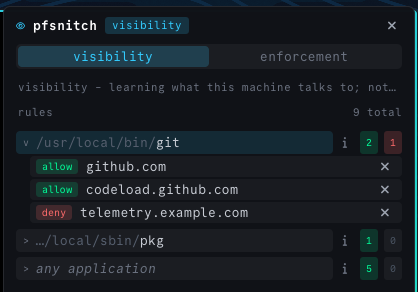
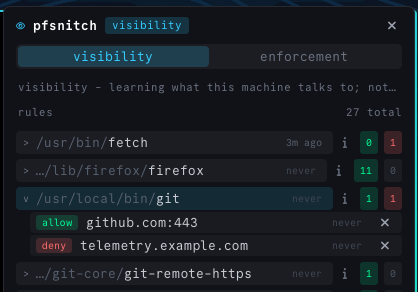
Document ports, binary identity, reject and last-used
The docs still described the tool as it was four changes ago: no port syntax
anywhere, nothing about app-id, and a deny that hangs rather than refuses.

Refreshes the panel screenshot too, which predated the info button, the full
paths and the last-used column.

diff --git a/docs/FRONTENDS.md b/docs/FRONTENDS.md
@@ -44,15 +44,37 @@ own line is a complete rule. Hand-editing is an interface, not a workaround.
 | `deny-host-from`  | a hostname, **for one binary** | what *Block connection* writes |
 | `allow-dest-from` | one address, **for one binary** | used when no hostname was seen |
 | `deny-dest-from`  | one address, **for one binary** | as above |
-| `allow-app`       | one binary, every destination | |
-| `deny-app`        | one binary, every destination | the big hammer |
+| `allow-app`       | one binary, every destination and port | |
+| `deny-app`        | one binary, every destination and port | the big hammer |
 | `allow-host`      | a hostname, **any binary** | infrastructure: a resolver, a gateway |
 | `deny-host`       | a hostname, any binary | |
 | `allow-dest`      | one address, any binary | |
+| `app-id`          | pins a binary's sha256 | see *Binary identity* below |
 
 Hostname rules are preferred over addresses: one rule covers every address a
 site answers on, instead of re-prompting for each rotating CDN address.
 Wildcards are supported as `*.example.com`, in scoped and unscoped rules alike.
+
+### Ports
+
+Every host and address rule may name a port. A rule without one means **any
+port**, which is what a bare host has always meant - so a policy file written
+before ports existed keeps its meaning exactly.
+
+```
+allow-host-from github.com:443            /usr/local/bin/git   # just HTTPS
+allow-host-from github.com                /usr/local/bin/git   # any port
+allow-dest-from [2606:4700:4700::1111]:853 /usr/bin/drill      # DoT only
+allow-dest      1.1.1.1:53                                     # any binary, DNS only
+```
+
+IPv6 needs the bracket form when you want a port. A bare `2606:4700::1111` is
+full of colons and must not be read as a host and a port - so brackets are the
+only way to say which is which, exactly as in a URL.
+
+An approval made from a prompt covers **the port it was asked about**, not every
+port on that host. Approving a browser's HTTPS access should not also hand it
+SSH.
 
 Scoped rules are written **destination first**:
 
@@ -103,6 +125,33 @@ When *Allow connection* is answered for a connection that could not be
 attributed, pfsnitch falls back to an unscoped rule and marks it
 `# unattributed connection`, because it is broader than you asked for and should
 be easy to find on review.
+
+## Binary identity
+
+Policy keys on the executable path, because that is the only stable handle pf
+and libprocstat give us. But a path is not an identity: replace the file and the
+replacement inherits every rule the original earned.
+
+An approval therefore pins the binary's hash:
+
+```
+app-id 311447b0a7dd05377167c9ca97a36176...	/usr/local/bin/git	# identity when approved
+```
+
+If the binary later differs, **its rules are ignored** and the connection falls
+back to asking. The prompt says so in red, and receives `changed` as an optional
+7th argument - a backend written before that existed simply ignores it. An
+approval given while it says `changed` re-pins the new hash: you have just said
+the new binary is the one you meant.
+
+FreeBSD binaries are generally unsigned, so a content hash stands in for the code
+signature Little Snitch uses. Hashing is `sha256(1)` from base rather than a
+crypto crate, cached on (mtime, size) so a binary is hashed once and again only
+when it actually changes.
+
+Only explicit approvals pin an identity - never a rule learned in visibility
+mode. Pinning something nobody looked at would give the pin a weight it has not
+earned.
 
 ## Grouped by application
 
@@ -163,6 +212,11 @@ Point `prompt` in `policy.conf`, `$PFSNITCH_PROMPT`, or `pfsnitch_prompt` in
 | `block-conn` | deny **this destination to this binary** — writes `deny-host-from` / `deny-dest-from` |
 | `block-app`  | deny the binary everything — writes `deny-app` |
 | `timeout`    | drop the packet, **write nothing** |
+
+A settled deny is **rejected, not dropped**: the daemon synthesises a TCP RST so
+the application gets `ECONNREFUSED` immediately instead of waiting out a 75
+second timeout. A packet held while a prompt is still open is dropped silently,
+because its retransmission is what carries the connection until you answer.
 
 `timeout` deliberately persists no rule. Walking away from a prompt must not
 lock you out of an application, and an unattended machine must not accumulate

diff --git a/README.md b/README.md
@@ -54,10 +54,11 @@ phones a metrics endpoint loses the metrics endpoint, not the network.
 
 | kind | matches |
 |---|---|
-| `allow-host-from` / `deny-host-from` | a hostname, **for one binary** |
-| `allow-dest-from` / `deny-dest-from` | one address, **for one binary** |
+| `allow-host-from` / `deny-host-from` | a hostname, **for one binary**, optionally one port |
+| `allow-dest-from` / `deny-dest-from` | one address, **for one binary**, optionally one port |
 | `allow-app` / `deny-app` | one binary, every destination |
 | `allow-host` / `deny-host` / `allow-dest` | any binary — for real infrastructure (a resolver, a gateway) |
+| `app-id` | pins the binary's sha256 at the moment it was approved |
 
 Hostname rules are preferred over addresses because they survive round-robin
 DNS: one rule covers every address a site answers on, instead of re-prompting
@@ -66,6 +67,33 @@ for each rotating CDN address.
 A scoped deny is the most specific rule there is, so it beats every broader
 allow — including `allow-app` for that same binary. Otherwise approving a host
 for one program would silently re-open it for one you had blocked.
+
+Rules carry an optional port, and an approval covers the port it was asked
+about - approving a browser's HTTPS access should not also hand it SSH. A rule
+without a port still means any port, so older policy files keep their meaning.
+
+```sh
+pfsnitch allow host github.com:443 --from /usr/local/bin/git
+```
+
+## A rule is pinned to the binary, not just its path
+
+Replace the file behind an approved path and the replacement would inherit every
+rule the original earned. So an approval records the binary's sha256, and if it
+later differs its rules are ignored and the connection falls back to asking -
+with the prompt saying so in red.
+
+FreeBSD binaries are generally unsigned, so a content hash stands in for the code
+signature Little Snitch uses.
+
+## Blocked means refused, not hung
+
+A settled deny synthesises a TCP reset, so the application gets
+`Connection refused` immediately rather than waiting out a 75 second timeout - a
+hang reads as a broken network, not as a decision.
+
+A connection held while a prompt is open is still dropped silently, because
+TCP's own retransmission is what carries it until you answer.
 
 ## Managing it
 
@@ -79,6 +107,9 @@ pfsnitch allow host github.com --from /usr/local/bin/git
 pfsnitch deny  host metrics.example.com --from /usr/local/bin/someapp
 pfsnitch rm    deny-host-from metrics.example.com /usr/local/bin/someapp
 ```
+
+Every rule also records when it was last used, so a rule list can be reviewed
+for things left over from months ago rather than only read.
 
 The policy file is plain text, keeps its comments, and is **re-read within a
 second of any change** — by the CLI, an editor, or a script. Nothing needs to

diff --git a/docs/SAFETY.md b/docs/SAFETY.md
@@ -62,6 +62,15 @@ running daemon with pf off is a daemon enforcing nothing.
   accumulate deny rules for software no human ever judged.
 - **Policy is keyed on the executable path**, never the process name: a name is
   trivially spoofable and the kernel truncates it to 19 characters anyway.
+- **...and an approval pins that binary's hash.** A path is not an identity;
+  replacing the file would otherwise hand the replacement every rule the
+  original earned. If the hash later differs, those rules are ignored and the
+  connection falls back to asking.
+- **A settled deny is rejected, not dropped.** The application gets
+  `ECONNREFUSED` at once instead of a 75 second silence, because a hang reads as
+  a broken network rather than as a decision. A packet held while a prompt is
+  open is still dropped, since its retransmission is what carries the connection
+  until the user answers.
 
 ## Boot: nothing escapes before the daemon is up
 
